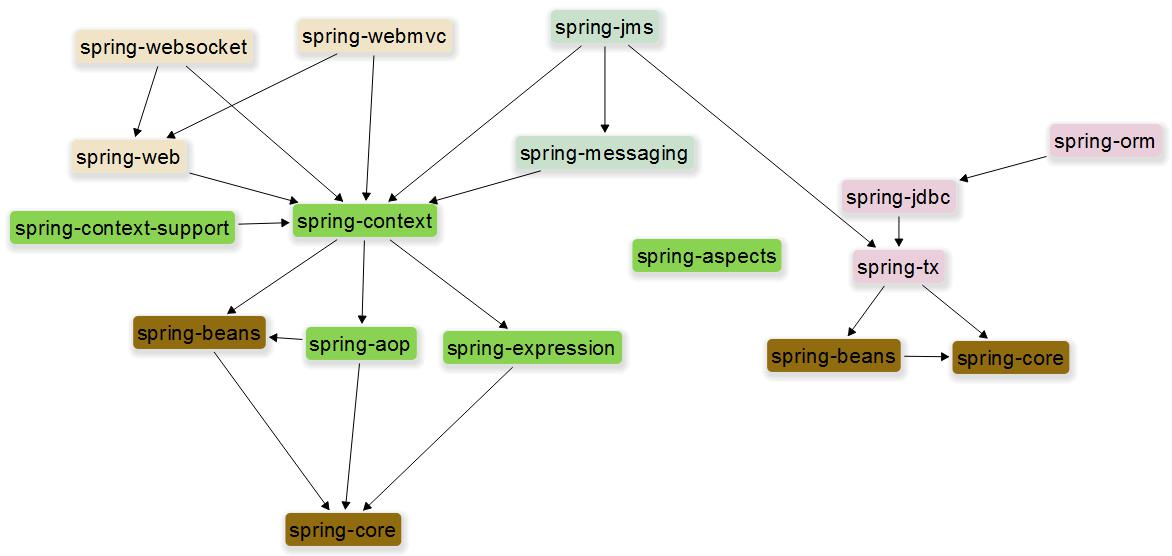
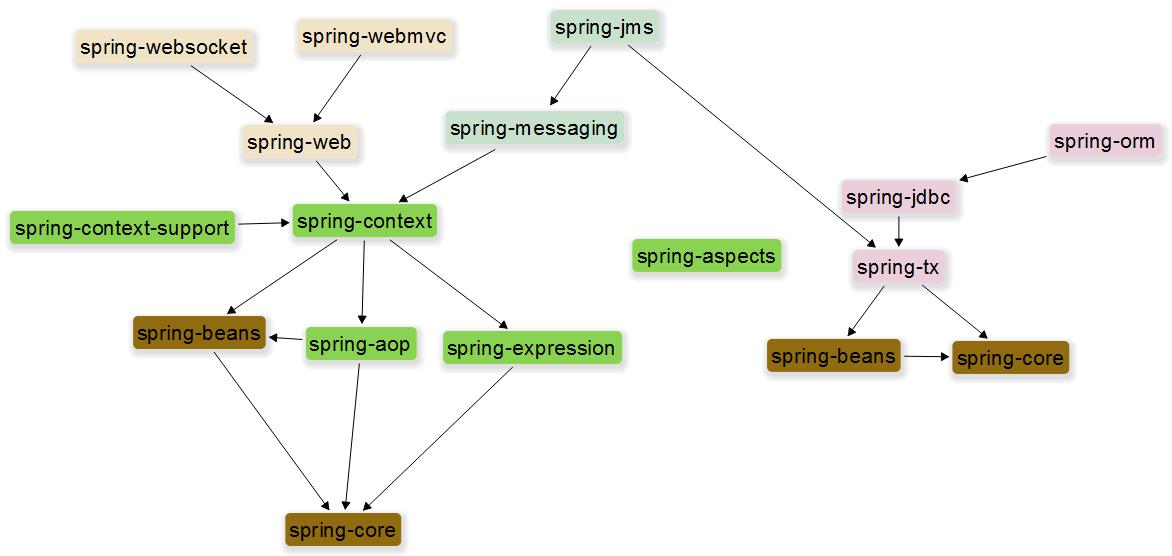
简化依赖关系图 及静态资源服务定制

diff --git a/src/main/java/com/choelea/springboot/springbootstaticcontent/controller/ControllerAdvicer.java b/src/main/java/com/choelea/springboot/springbootstaticcontent/controller/ControllerAdvicer.java
@@ -1,0 +1,18 @@
+package com.choelea.springboot.springbootstaticcontent.controller;
+
+import org.springframework.beans.factory.annotation.Autowired;
+import org.springframework.web.bind.annotation.ControllerAdvice;
+import org.springframework.web.bind.annotation.ModelAttribute;
+import org.springframework.web.servlet.resource.ResourceUrlProvider;
+
+@ControllerAdvice
+public class ControllerAdvicer {
+	
+	@Autowired
+	ResourceUrlProvider resourceUrlProvider;
+
+	@ModelAttribute("urls")
+	public ResourceUrlProvider urls() {
+		return this.resourceUrlProvider;
+	}
+}
